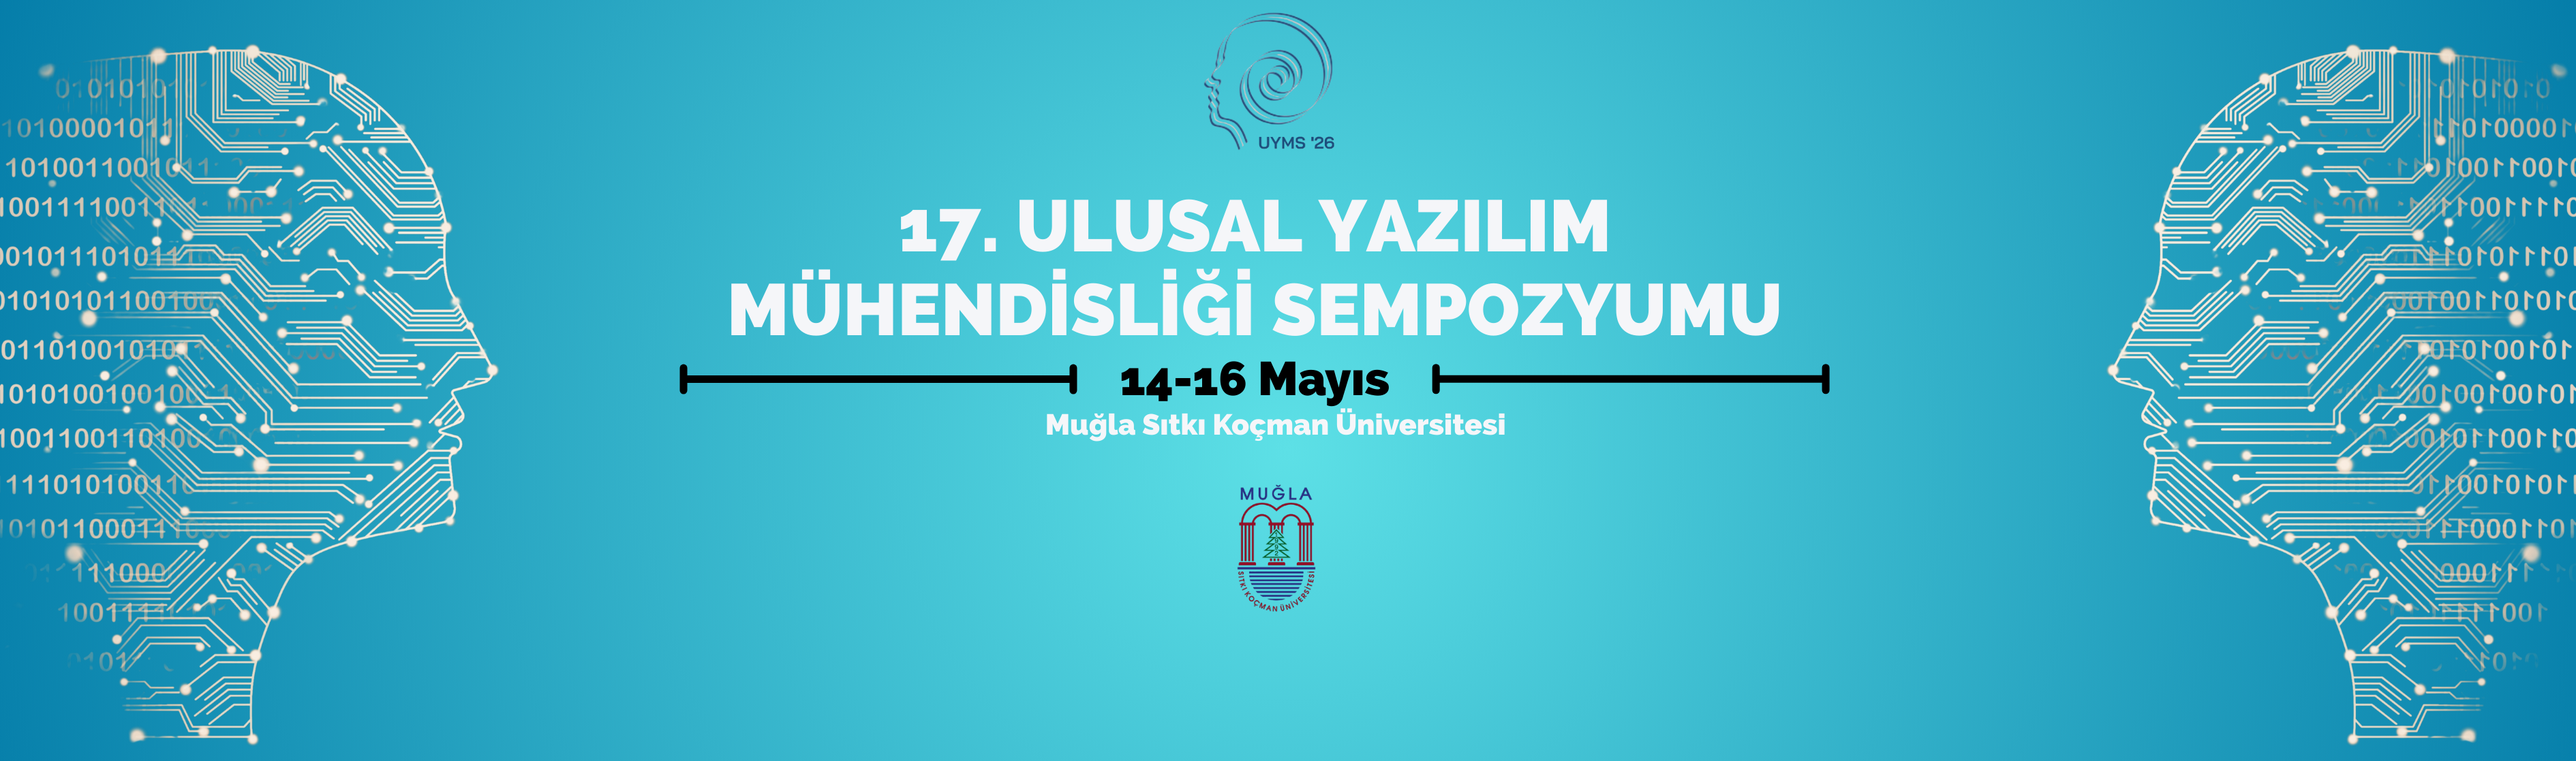
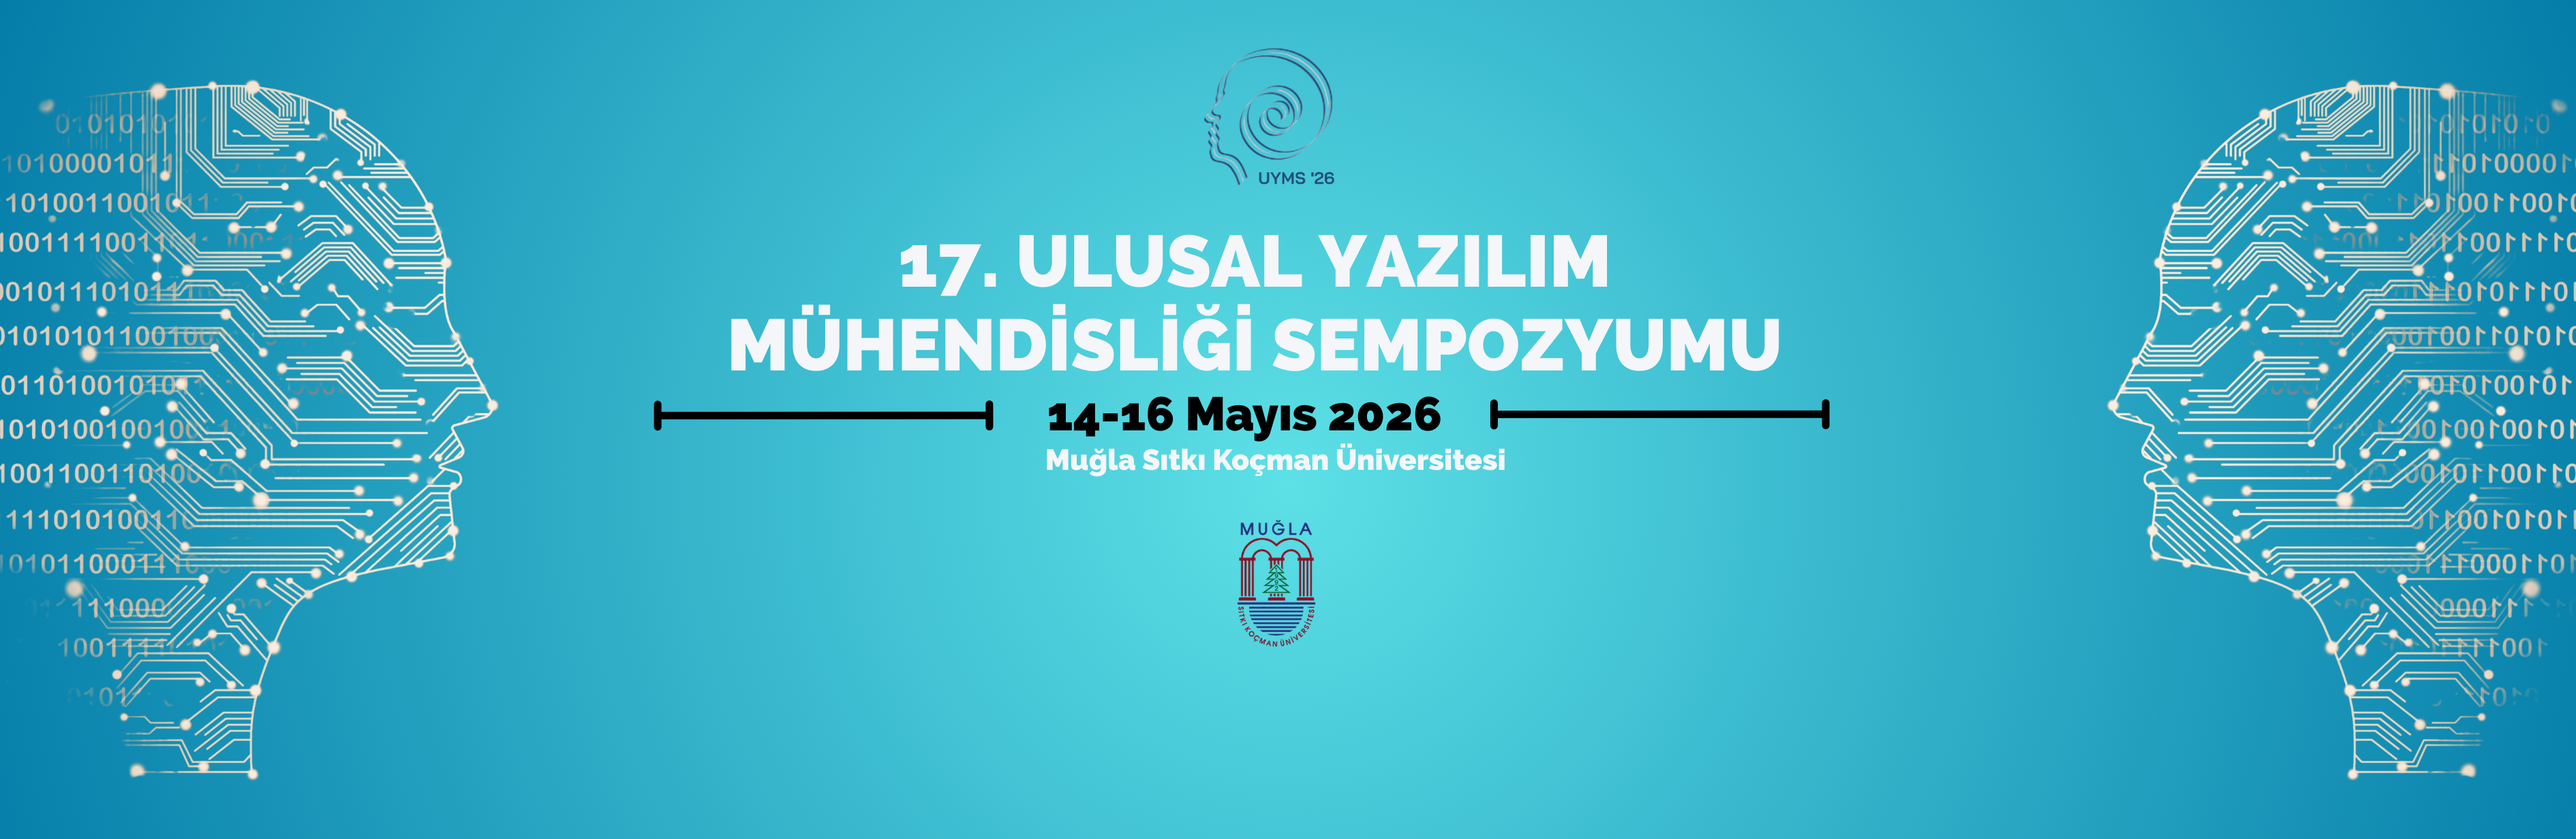
test

diff --git a/src/pages/Anasayfa.jsx b/src/pages/Anasayfa.jsx
@@ -156,7 +156,7 @@ const Anasayfa = () => {
                   Ulusal Yazılım Mühendisliği Sempozyumu (UYMS), Türkiye yazılım sektörü ile yazılım alanında çalışmalar yapan akademisyenleri bir araya getirerek yazılım mühendisliğindeki son gelişmelerin ve araştırmaların paylaşılmasını sağlayan bir platformdur. 2003 yılından bu yana gerçekleştirilen UYMS, araştırma sonuçlarının paylaşıldığı bir ortam sağlamasının ötesinde, ulusal yazılım mühendisliği araştırmalarının geleceğinin şekillenmesinde etkin rol oynamaktadır. Sempozyumun bu sene de tüm katılımcıların yararlanacağı geniş bir içerik taşıması hedeflenmektedir.
                 </p>
                 <p className="text-lg leading-relaxed text-justify">
-                  Muğla Sıtkı Koçman Üniversitesi Yazılım Mühendisliği Bölümü işbirliği ile düzenlenecek olan 17. UYMS, 14-16 Mayıs 2026 tarihlerinde Muğla Sıtkı Koçman Üniversitesi Atatürk Kültür Merkezi'nde yüz yüze olarak gerçekleştirilecektir.
+                  <span className='font-bold'>Muğla Sıtkı Koçman Üniversitesi</span> işbirliği ile düzenlenecek olan 17. UYMS, <span className='font-bold' >14-16 Mayıs 2026</span> tarihlerinde Muğla Sıtkı Koçman Üniversitesi Atatürk Kültür Merkezi'nde yüz yüze olarak gerçekleştirilecektir.
                 </p>
               </div>
             </div>

diff --git a/src/pages/Iletisim.jsx b/src/pages/Iletisim.jsx
@@ -25,7 +25,7 @@ const Iletisim = () => {
       // Simulate form submission delay
       await new Promise(resolve => setTimeout(resolve, 1500));
       
-      const mailto = `mailto:uymsempozyumu@gmail.com?subject=${encodeURIComponent(form.konu)}&body=${encodeURIComponent(
+      const mailto = `mailto:uyms26@mu.edu.tr?subject=${encodeURIComponent(form.konu)}&body=${encodeURIComponent(
         `Ad: ${form.ad}\nE-mail: ${form.email}\n\nMesaj: ${form.mesaj}`
       )}`;
       window.location.href = mailto;
@@ -57,7 +57,7 @@ const Iletisim = () => {
         </svg>
       ),
       title: "E-posta",
-      content: "uymsempozyumu@gmail.com",
+      content: "uyms26@mu.edu.tr",
       color: "green"
     },
     {

diff --git a/src/components/Footer.jsx b/src/components/Footer.jsx
@@ -101,7 +101,7 @@ const Footer = () => (
               <svg className="w-5 h-5 text-blue-400" fill="none" stroke="currentColor" viewBox="0 0 24 24">
                 <path strokeLinecap="round" strokeLinejoin="round" strokeWidth={2} d="M3 8l7.89 4.26a2 2 0 002.22 0L21 8M5 19h14a2 2 0 002-2V7a2 2 0 00-2-2H5a2 2 0 00-2 2v10a2 2 0 002 2z" />
               </svg>
-              <span className="text-sm text-gray-300">info@uyms26.org</span>
+              <span className="text-sm text-gray-300">uyms26@mu.edu.tr</span>
             </div>
           </div>
         </div>

diff --git a/src/pages/Program.jsx b/src/pages/Program.jsx
@@ -122,7 +122,7 @@ const Program = () => {
         </div>  
               </div>
               <h3 className="text-xl font-bold text-gray-800 mb-2">E-posta</h3>
-              <p className="text-blue-600">uymsempozyumu@gmail.com</p>
+              <p className="text-blue-600">uyms26@mu.edu.tr</p>
             </div>
             <div className="text-center p-6 bg-green-50 rounded-xl">
               <div className="text-4xl mb-4">

diff --git a/src/pages/OrganizasyonKomitesi.jsx b/src/pages/OrganizasyonKomitesi.jsx
@@ -212,7 +212,7 @@ const OrganizasyonKomitesi = () => {
                   </div>
                   <div>
                     <h3 className="font-semibold text-gray-800">E-posta</h3>
-                    <p className="text-gray-600">uymsempozyumu@gmail.com</p>
+                    <p className="text-gray-600">uyms26@mu.edu.tr</p>
                   </div>
                 </div>
 

diff --git a/src/pages/ProgramKomitesi.jsx b/src/pages/ProgramKomitesi.jsx
@@ -108,7 +108,7 @@ const ProgramKomitesi = () => {
                   </div>
                   <div>
                     <h3 className="font-semibold text-gray-800">E-posta</h3>
-                    <p className="text-gray-600">uymsempozyumu@gmail.com</p>
+                    <p className="text-gray-600">uyms26@mu.edu.tr</p>
                   </div>
                 </div>
 
